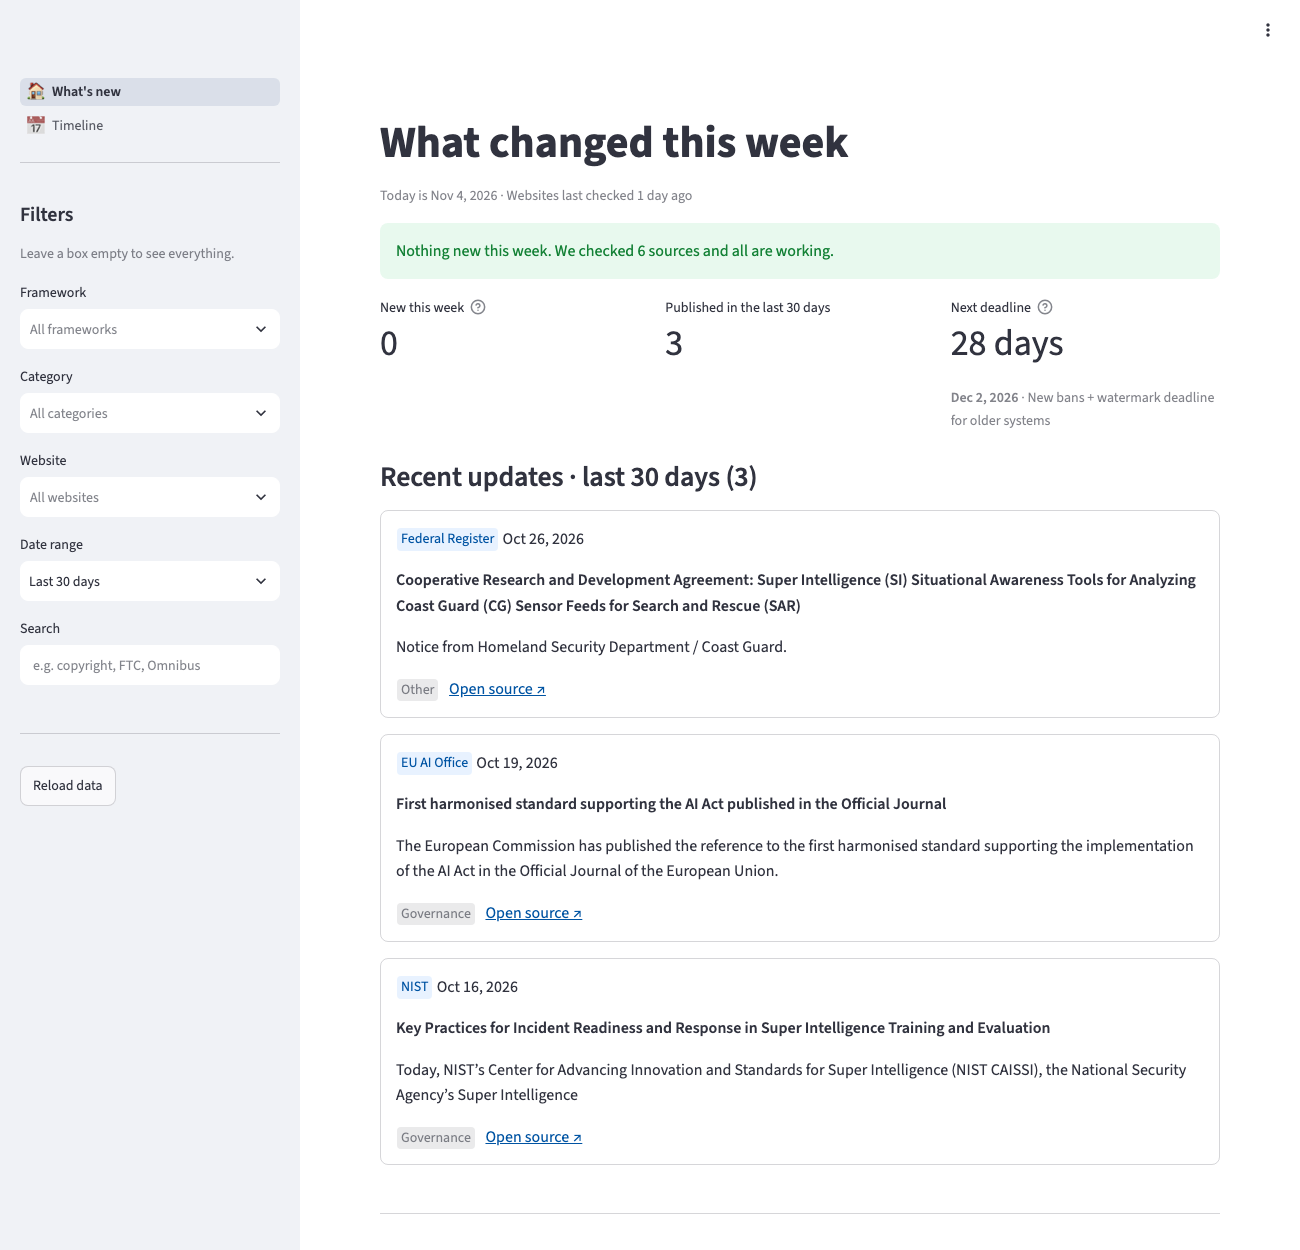
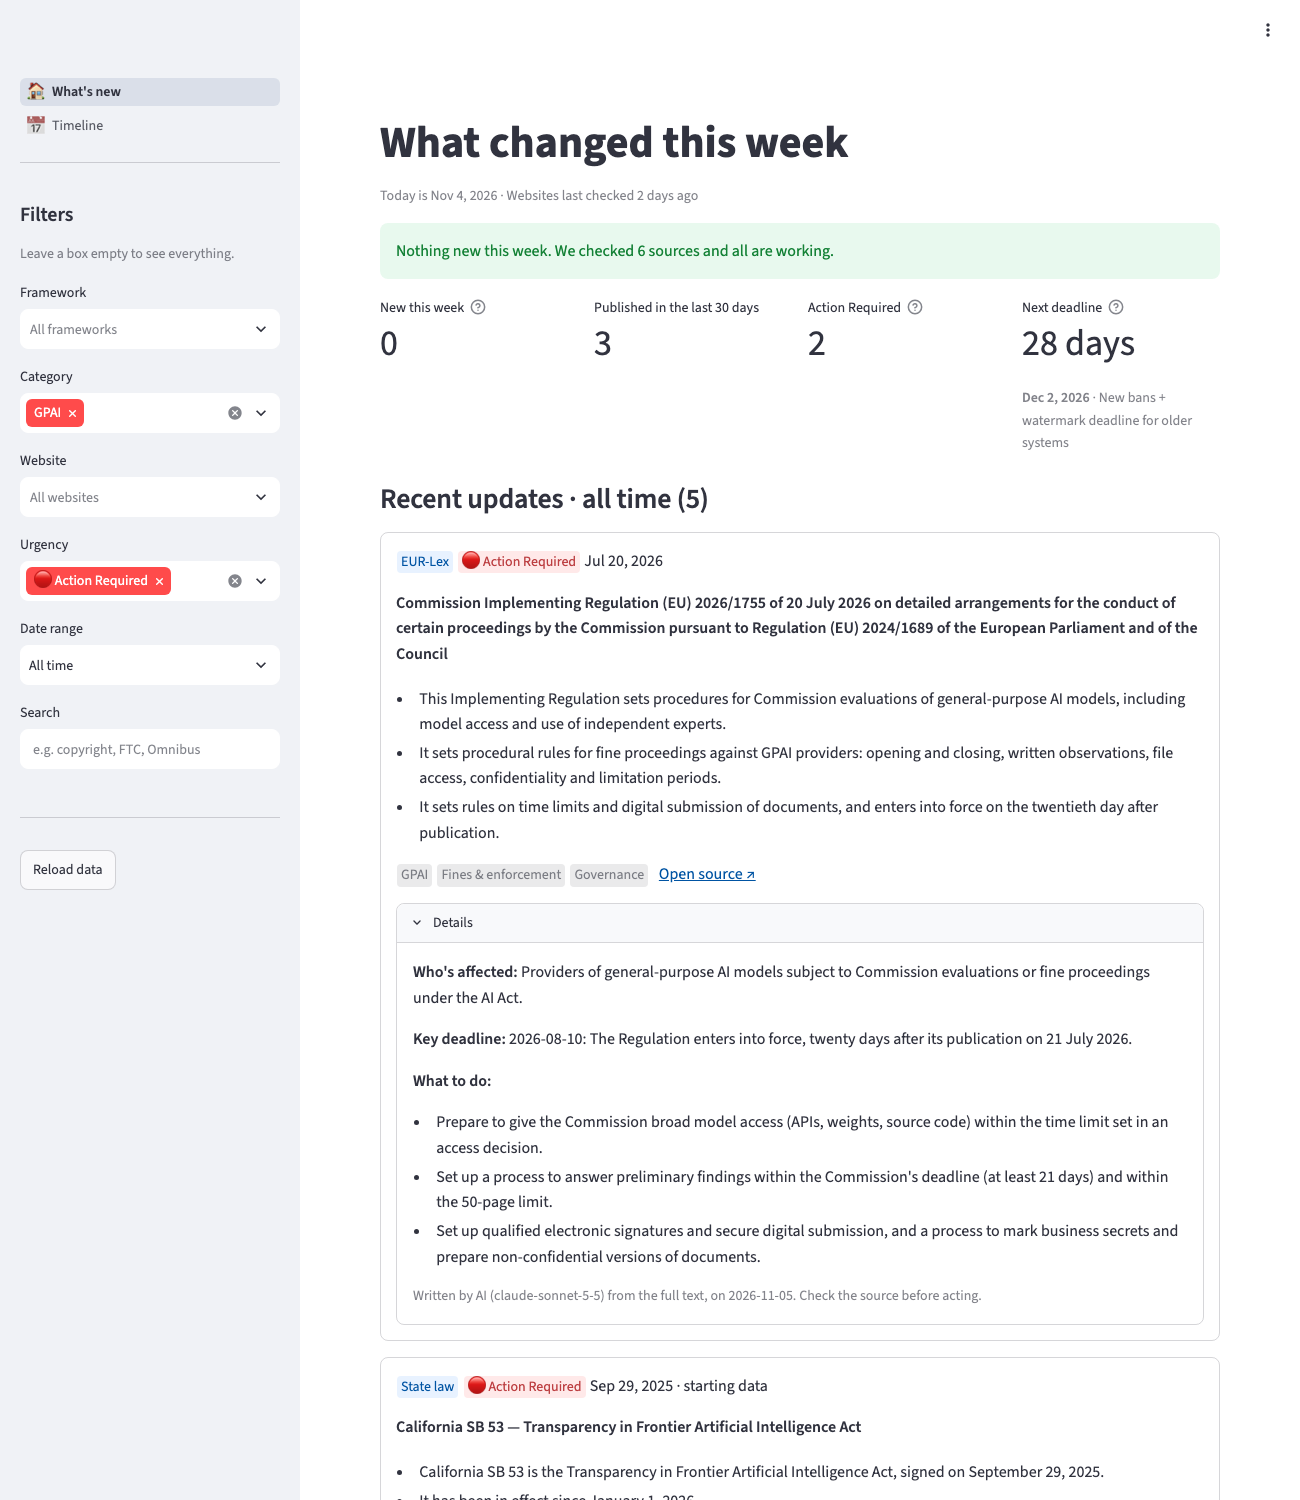
updating documation

diff --git a/dashboard/home.py b/dashboard/home.py
@@ -61,18 +61,25 @@ now, today = utcnow(), date.today()
 
 # ---------------------------------------------------------------- sidebar
 
+# Filters can be set from the link, e.g. ?urgency=Action Required&range=All time, so a filtered view can be shared.
+link = st.query_params
+linked_categories = [c for c in link.get_all("category") if c in data.CATEGORIES]
+linked_urgency = [r for r in link.get_all("urgency") if r in data.RISK_LEVELS]
+range_options = list(data.DATE_RANGES)
+linked_range = range_options.index(link["range"]) if link.get("range") in range_options else 0
+
 with st.sidebar:
     st.header("Filters")
     st.caption("Leave a box empty to see everything.")
     frameworks = st.multiselect("Framework", list(data.FRAMEWORKS), format_func=data.FRAMEWORKS.get,
                                 placeholder="All frameworks")
     categories = st.multiselect("Category", list(data.CATEGORIES), format_func=data.CATEGORIES.get,
-                                placeholder="All categories")
+                                placeholder="All categories", default=linked_categories)
     sources = st.multiselect("Website", list(data.SOURCES), format_func=data.SOURCES.get,
                              placeholder="All websites")
     risk_levels = st.multiselect("Urgency", list(data.RISK_LEVELS), format_func=data.RISK_LEVELS.get,
-                                 placeholder="Any urgency")
-    range_label = st.selectbox("Date range", list(data.DATE_RANGES))
+                                 placeholder="Any urgency", default=linked_urgency)
+    range_label = st.selectbox("Date range", range_options, index=linked_range)
     query = st.text_input("Search", placeholder="e.g. copyright, FTC, Omnibus")
     st.divider()
     if st.button("Reload data", help="The page re-reads the database every 5 minutes. Click to do it now."):

diff --git a/tests/test_dashboard.py b/tests/test_dashboard.py
@@ -144,6 +144,20 @@ def test_page_shows_ai_summary_and_urgency(app_db):
     assert any(m.label == "Action Required" for m in at.metric)
 
 
+def test_filters_can_be_set_from_the_link(app_db):
+    st.cache_data.clear()
+    st.cache_resource.clear()
+    at = AppTest.from_file(APP, default_timeout=30)
+    at.query_params["urgency"] = "Action Required"
+    at.query_params["range"] = "All time"
+    at.run()
+    assert not at.exception
+    urgency = next(m for m in at.multiselect if m.label == "Urgency")
+    assert urgency.value == ["Action Required"]
+    assert at.selectbox[0].value == "All time"
+    assert any("No updates match" in i.value for i in at.info)  # the test document has no urgency
+
+
 def test_search_box_filters_the_list(app_db):
     at = run_app()
     at.text_input[0].input("nothing matches this").run()

diff --git a/README.md b/README.md
@@ -2,7 +2,7 @@
 
 > Automatic monitoring of AI regulation across the EU and the US, with a dashboard that answers one question first: **what changed this week?**
 
-![The "What's new" page](docs/images/home.png)
+![The "What's new" page, filtered to GPAI documents that need action, with the AI summary open](docs/images/home.png)
 
 ## Why this exists
 
@@ -35,7 +35,7 @@ The database starts with **14 hand-checked documents** (the AI Act, the GPAI Cod
 
 ## The dashboard
 
-**What's new:** the status message, new items this week, items needing action, the next deadline, and every recent update with its source, date, urgency, AI summary and tags. You can filter by framework, category (GPAI, high-risk, banned uses, fines and enforcement, and more), website, urgency, date range and search.
+**What's new:** the status message, new items this week, items needing action, the next deadline, and every recent update with its source, date, urgency, AI summary and tags. You can filter by framework, category (GPAI, high-risk, banned uses, fines and enforcement, and more), website, urgency, date range and search. Filters can also be set in the link, so a view can be shared: `?category=gpai&urgency=Action Required&range=All time`.
 
 **Timeline:** every AI Act phase-in date plus key US state deadlines, with days left or days since. Deadlines the EU pushed back are shown with their old and new dates.
 
